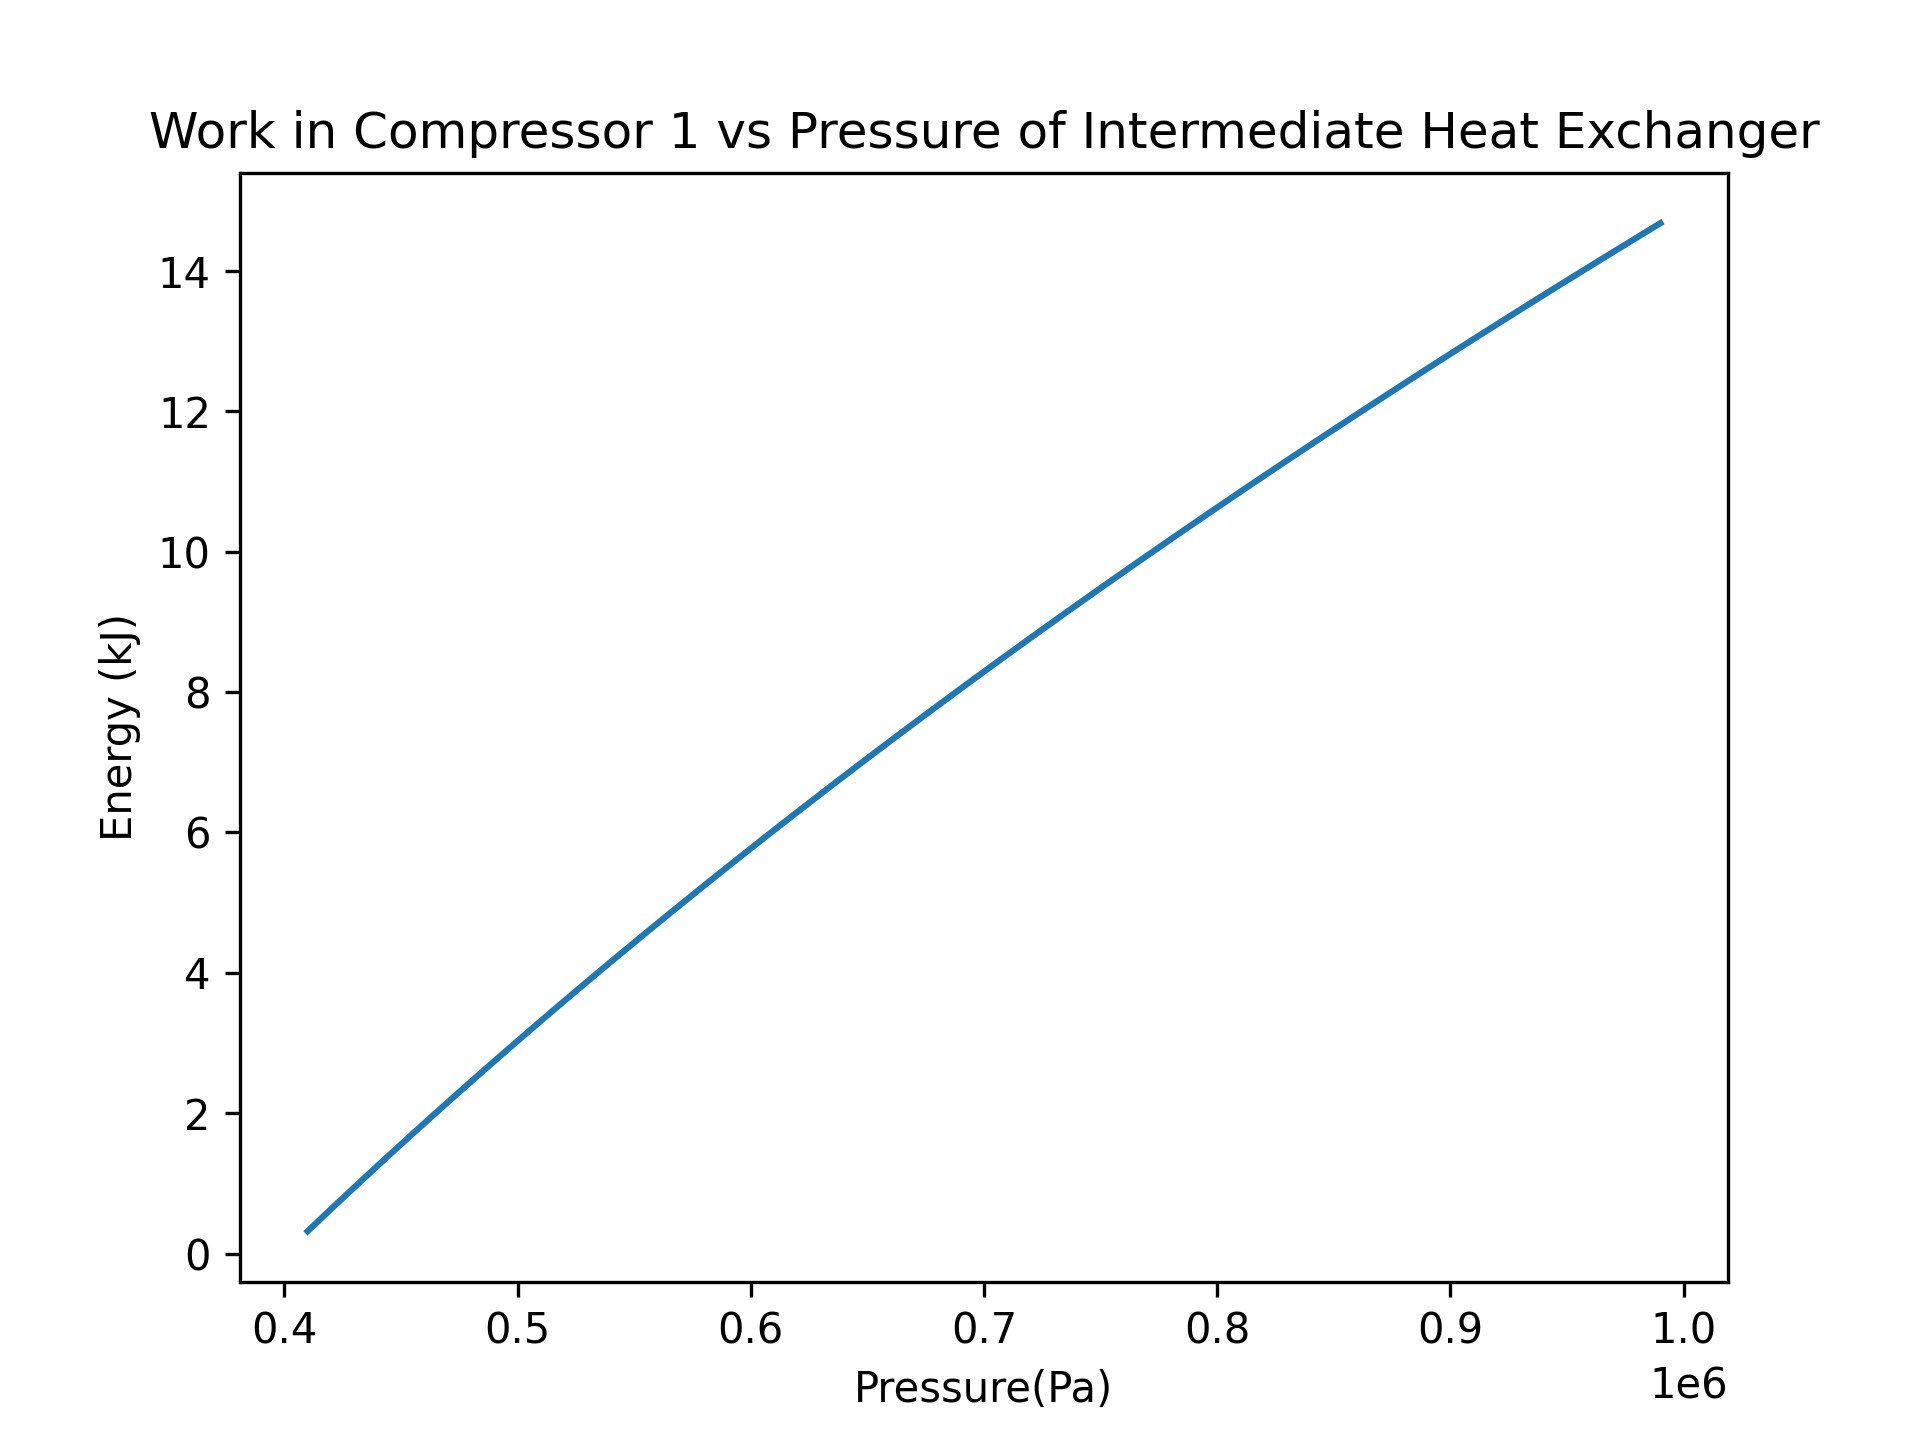
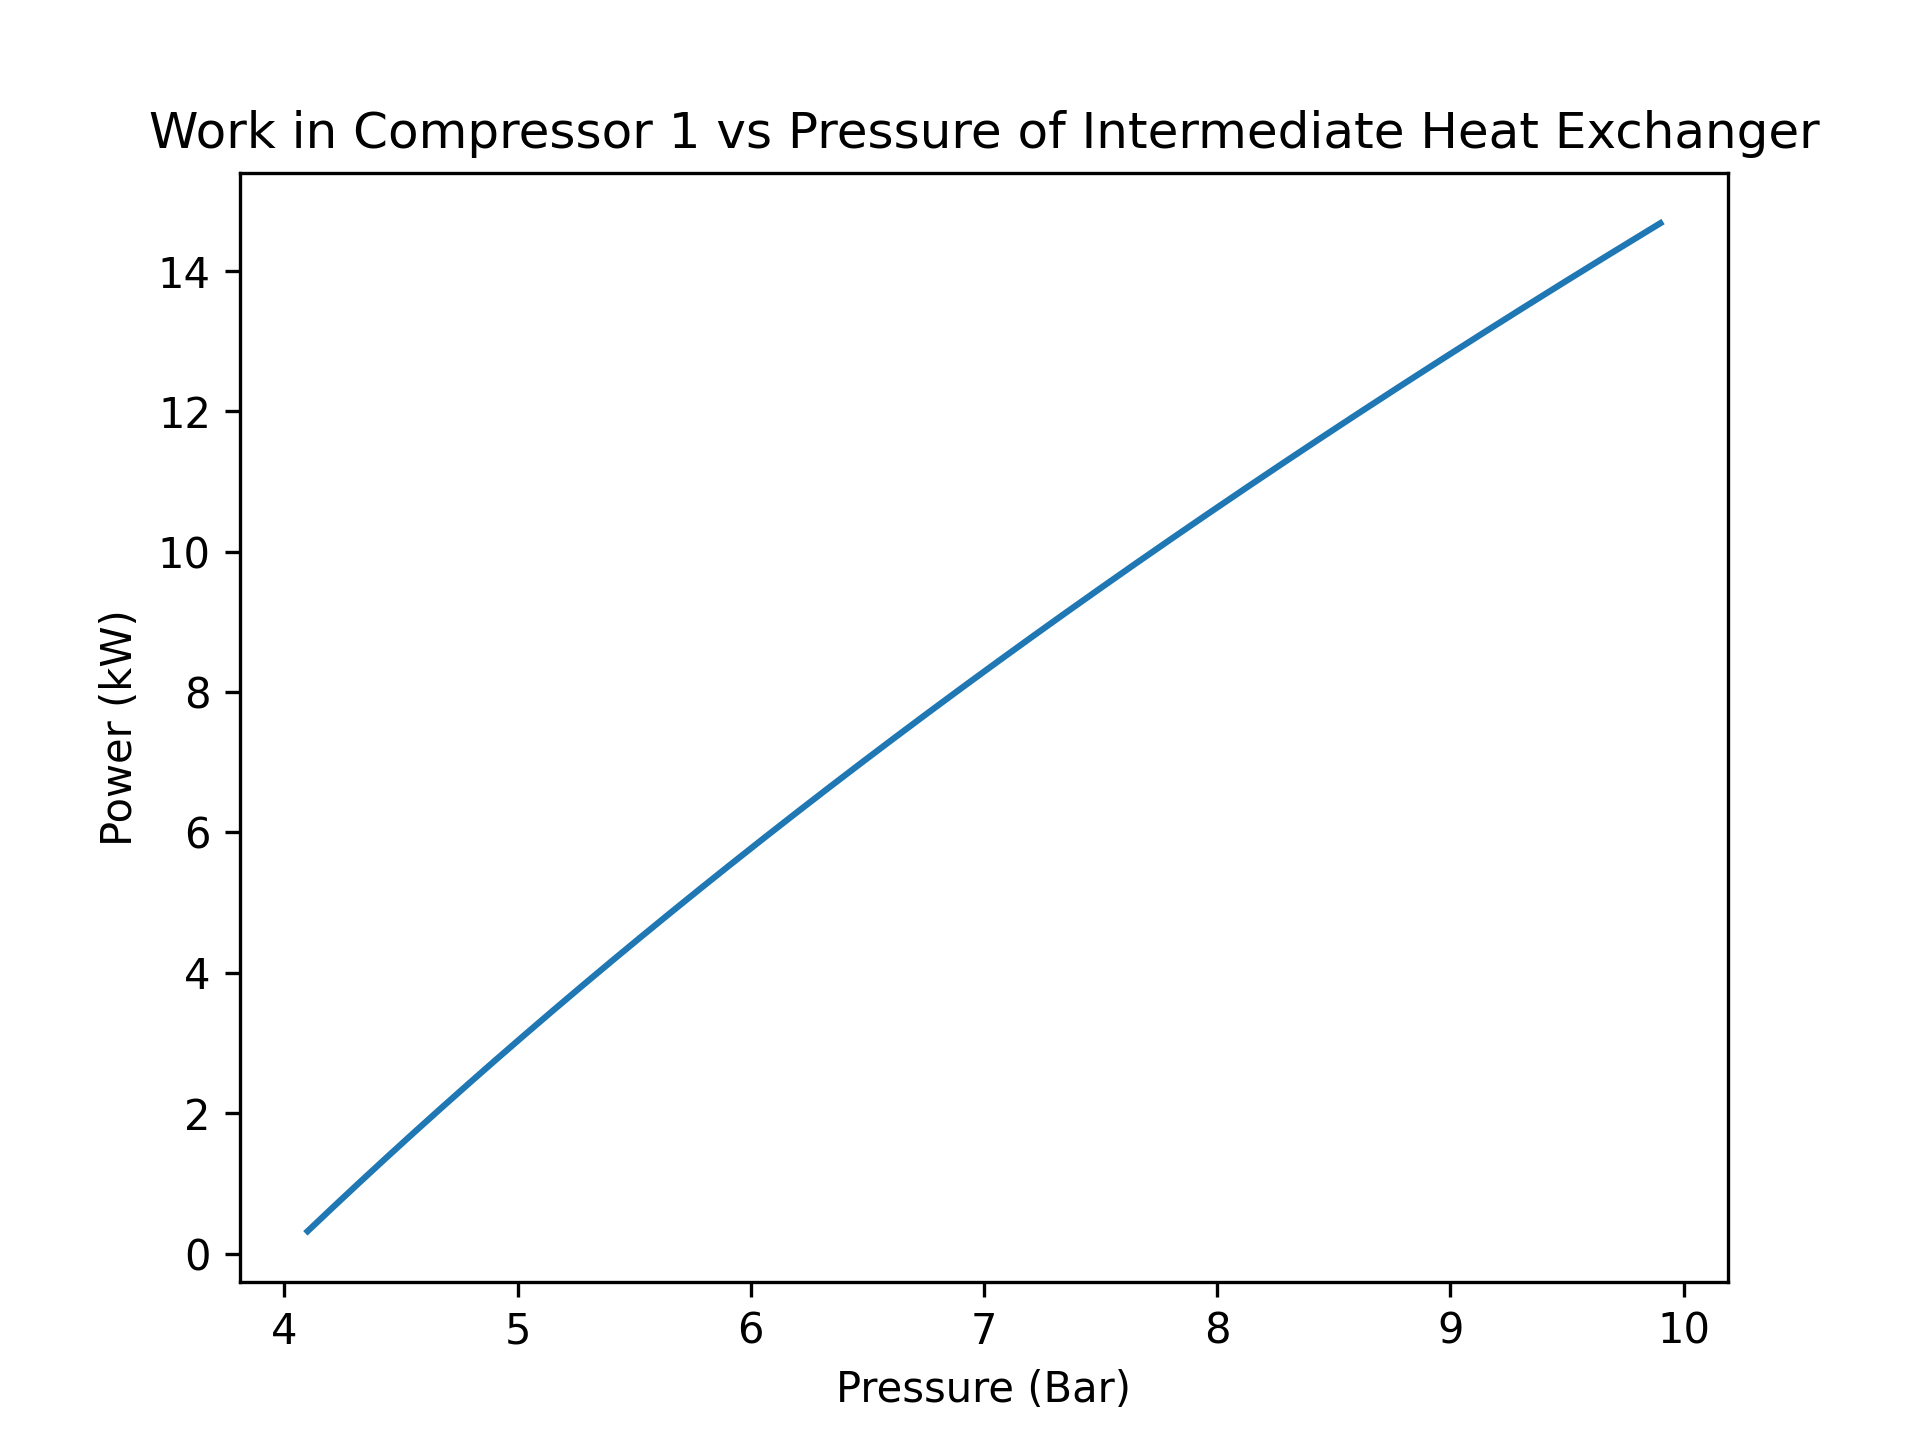
Updates to code; added graphs

diff --git a/project.py b/project.py
@@ -71,7 +71,7 @@ def loop(P1, P2, P5, P6, lpl_fluid, hpl_fluid):
 
     
     n_actual = abs((Q_out)/(W_cmp1+W_cmp2))
-    return [n_actual, m_ratio,W_cmp1,W_cmp2,W_cyc]
+    return [n_actual, m_ratio, m_hpl, m_lpl, W_cmp1, W_cmp2, W_cyc]
     
 
 beta = loop(Plow, Phx, Phx, Phigh, fluid_LPL, fluid_HPL)
@@ -80,54 +80,77 @@ Phx = np.linspace(4.1*10**5, 9.9*10**5,500)
 
 n = []          #Beta
 mr = []         #Mass ratio
+mhpl = []       #Mass Flow (High pressure)
+mlpl = []       #Mass Flow (Low pressure)
 wc1 = []        #Work in compressor 1
 wc2 = []        #Work in compressor 1
 wtot = []       #Work in cycle
 for x in Phx:
     n.append(loop(Plow, x, x, Phigh, fluid_LPL, fluid_HPL)[0])
     mr.append(loop(Plow, x, x, Phigh, fluid_LPL, fluid_HPL)[1])
-    wc1.append(loop(Plow, x, x, Phigh, fluid_LPL, fluid_HPL)[2])
-    wc2.append(loop(Plow, x, x, Phigh, fluid_LPL, fluid_HPL)[3])
-    wtot.append(loop(Plow, x, x, Phigh, fluid_LPL, fluid_HPL)[4])
+    mhpl.append(loop(Plow, x, x, Phigh, fluid_LPL, fluid_HPL)[2])
+    mlpl.append(loop(Plow, x, x, Phigh, fluid_LPL, fluid_HPL)[3])
+    wc1.append(loop(Plow, x, x, Phigh, fluid_LPL, fluid_HPL)[4])
+    wc2.append(loop(Plow, x, x, Phigh, fluid_LPL, fluid_HPL)[5])
+    wtot.append(loop(Plow, x, x, Phigh, fluid_LPL, fluid_HPL)[6])
 
+Phx_bar =[]
+for x in Phx:
+    Phx_bar.append(x*(10**-5))
 
 #Plot COP Vs pressure
 plt.figure(1)
-plt.plot(Phx, n)
-plt.xlabel("Pressure(Pa)")
+plt.plot(Phx_bar, n)
+plt.xlabel("Pressure (Bar)")
 plt.ylabel("COP")
 plt.title("Beta vs Pressure of Intermediate Heat Exchanger")
 plt.savefig("COP",dpi = 300, transparent = True)
 
 #Plot mass ratio vs pressure
 plt.figure(2)
-plt.plot(Phx, mr)
-plt.xlabel("Pressure(Pa)")
+plt.plot(Phx_bar, mr)
+plt.xlabel("Pressure (Bar)")
 plt.ylabel("Mass Ratio (Ammonia/Propane)")
 plt.title("Mass Ratio vs Pressure of Intermediate Heat Exchanger")
 plt.savefig("MassRatio",dpi = 300, transparent = True)
 
-#Plot low pressure compressor work vs pressure
+#Plot mass flow (high pressure loop) vs pressure
 plt.figure(3)
-plt.plot(Phx, wc1)
-plt.xlabel("Pressure(Pa)")
-plt.ylabel("Energy (kJ)")
+plt.plot(Phx_bar, mhpl)
+plt.xlabel("Pressure (Bar)")
+plt.ylabel("Mass Flow Rate (kg/s)")
+plt.title("Mass Flow in High Pressure Loop vs Pressure of Intermediate Heat Exchanger")
+plt.savefig("MassHPL",dpi = 300, transparent = True)
+
+#Plot mass flow (low pressure loop) vs pressure
+plt.figure(4)
+plt.plot(Phx_bar, mlpl)
+plt.xlabel("Pressure (Bar)")
+plt.ylabel("Mass Flow Rate (kg/s)")
+plt.title("Mass Flow in Low Pressure Loop vs Pressure of Intermediate Heat Exchanger")
+plt.savefig("MassLPL",dpi = 300, transparent = True)
+
+#Plot low pressure compressor work vs pressure
+plt.figure(5)
+plt.plot(Phx_bar, wc1)
+plt.xlabel("Pressure (Bar)")
+plt.ylabel("Power (kW)")
 plt.title("Work in Compressor 1 vs Pressure of Intermediate Heat Exchanger")
 plt.savefig("w1",dpi = 300, transparent = True)
 
 #Plot high pressure compressor work vs pressure
-plt.figure(4)
-plt.plot(Phx, wc2)
-plt.xlabel("Pressure(Pa)")
-plt.ylabel("Energy (kJ)")
+plt.figure(6)
+plt.plot(Phx_bar, wc2)
+plt.xlabel("Pressure (Bar)")
+plt.ylabel("Power (kW)")
 plt.title("Work in Compressor 2 vs Pressure of Intermediate Heat Exchanger")
 plt.savefig("w2",dpi = 300, transparent = True)
 
 #Plot total compressor work vs pressure
-plt.figure(5)
-plt.plot(Phx, wtot)
-plt.xlabel("Pressure(Pa)")
-plt.ylabel("Energy (kJ)")
+plt.figure(7)
+plt.plot(Phx_bar, wtot)
+plt.xlabel("Pressure (Bar)")
+plt.ylabel("Power (kW)")
 plt.title("Work in Cycle vs Pressure of Intermediate Heat Exchanger")
 plt.savefig("wtot",dpi = 300, transparent = True)
 

diff --git a/test.py b/test.py
@@ -1,0 +1,3 @@
+n = [1,2,3]
+n=n
+print(n)
